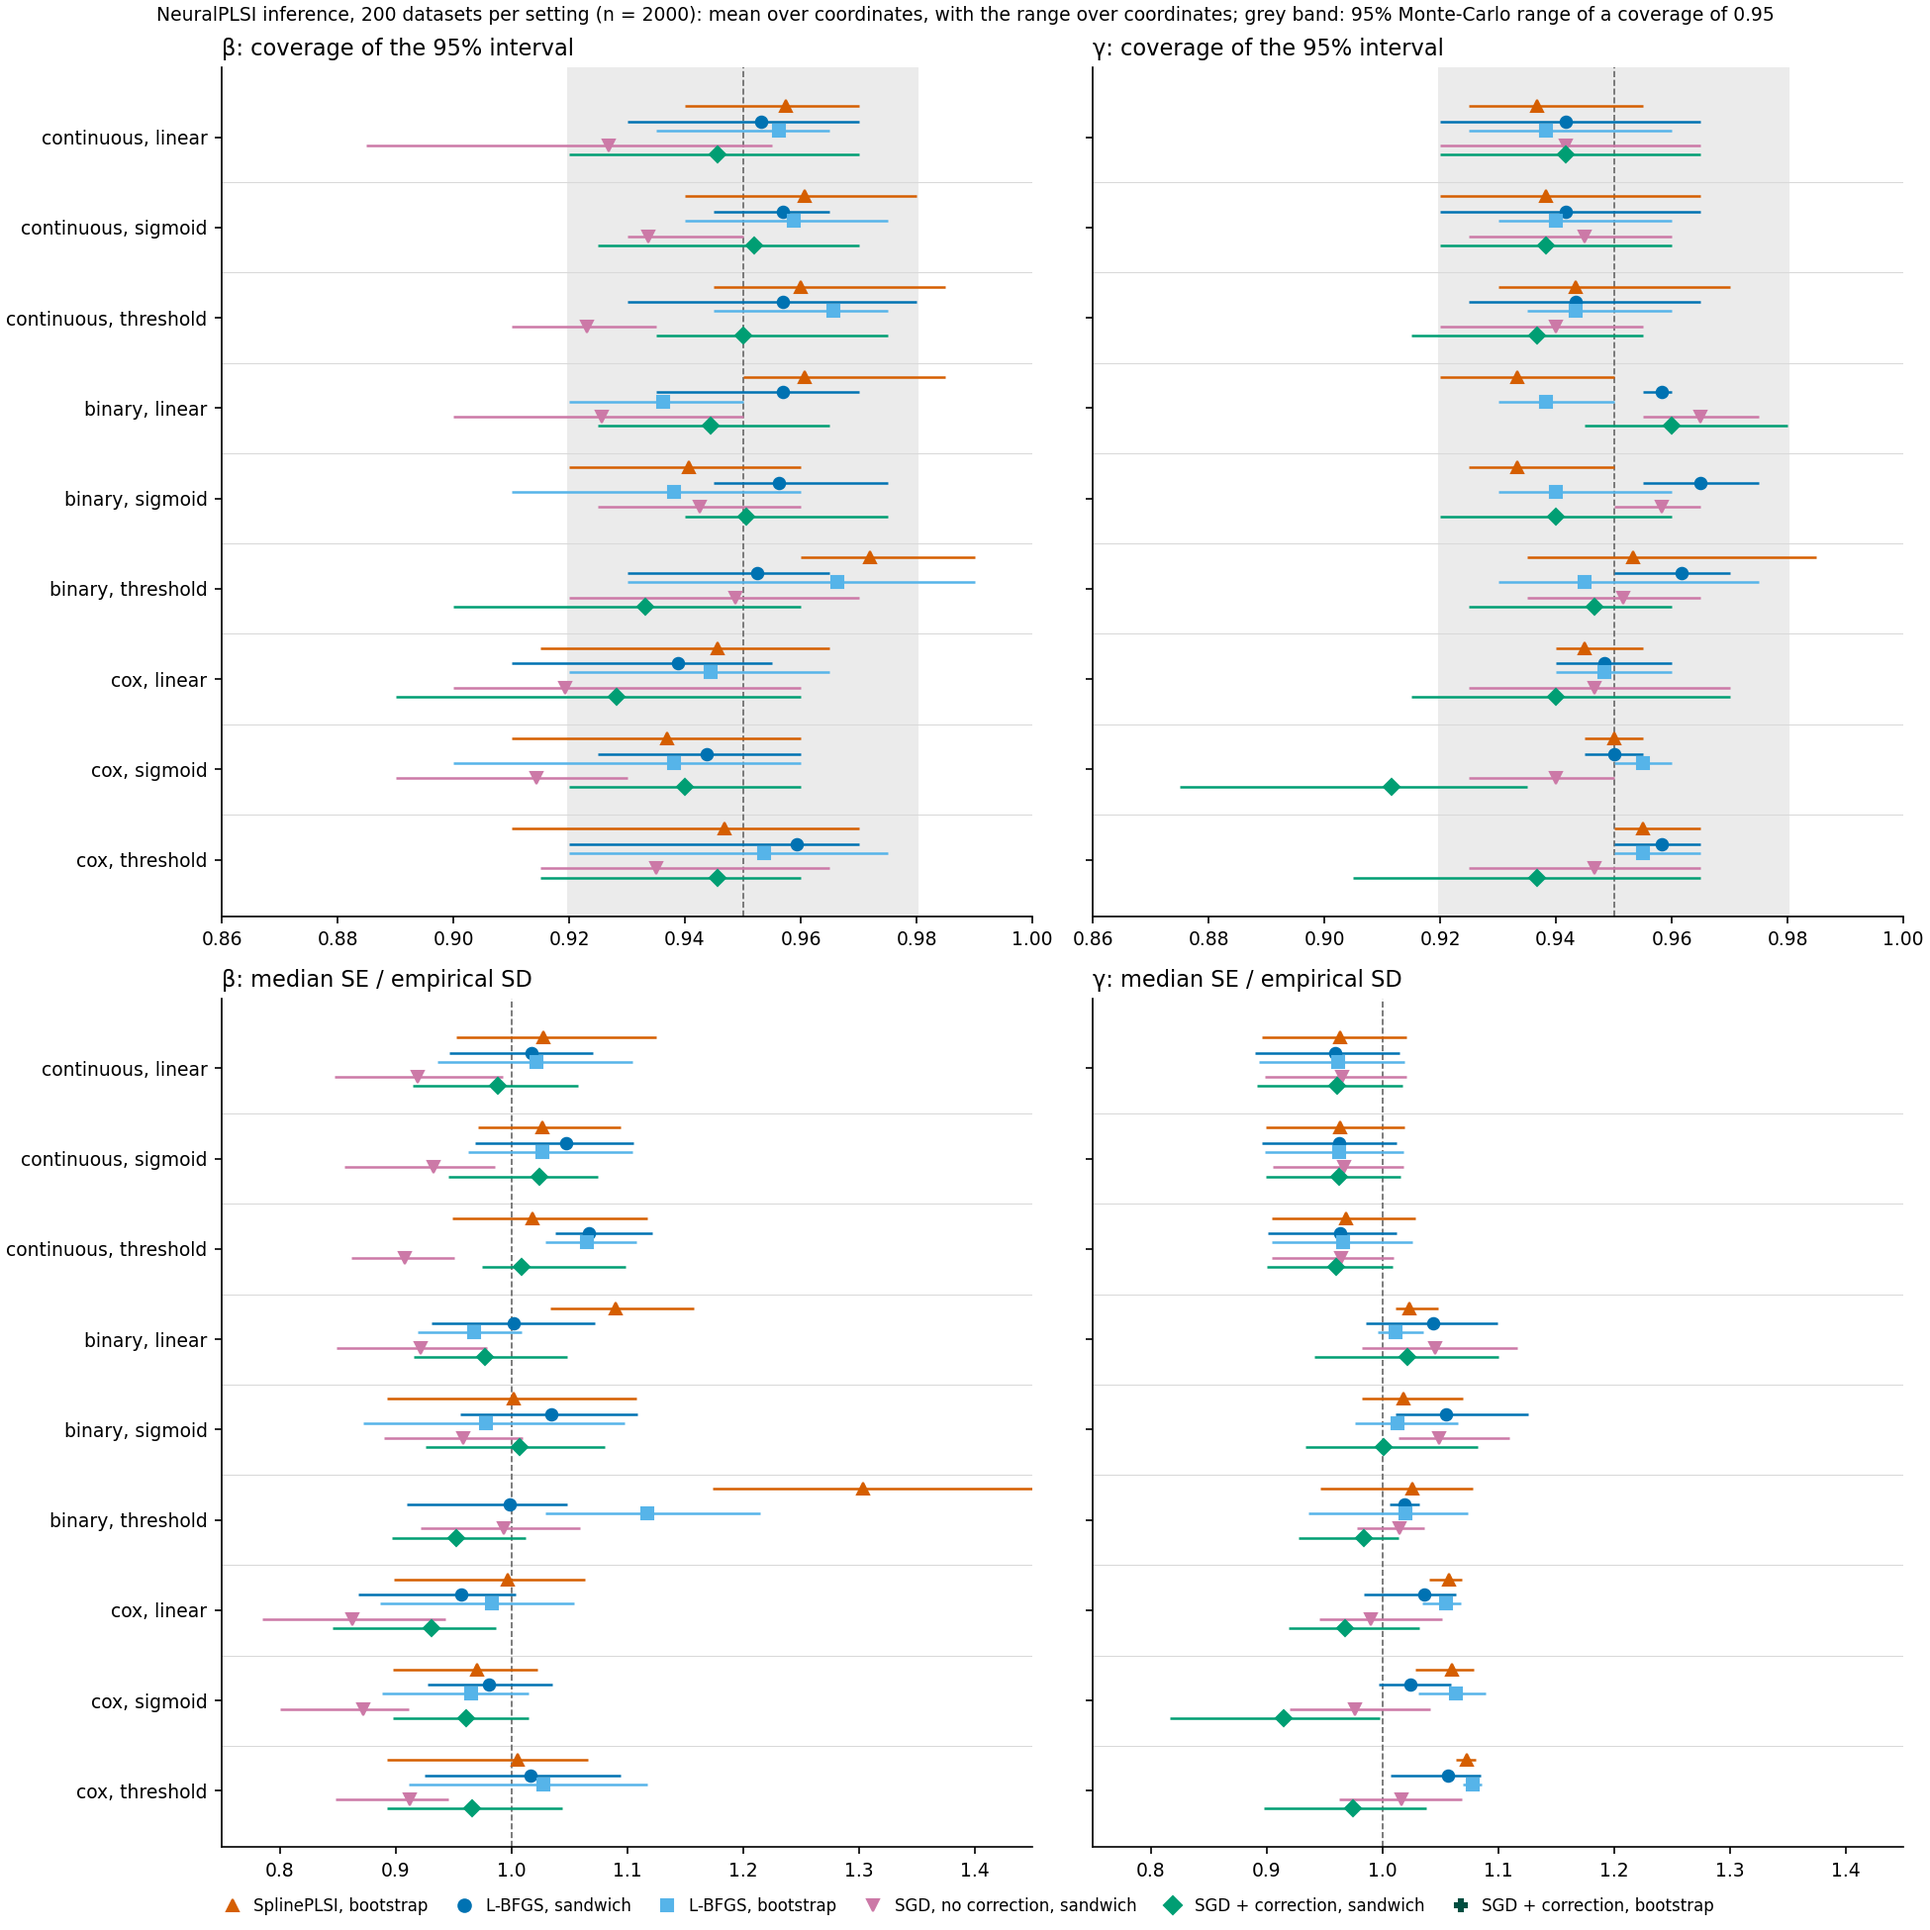
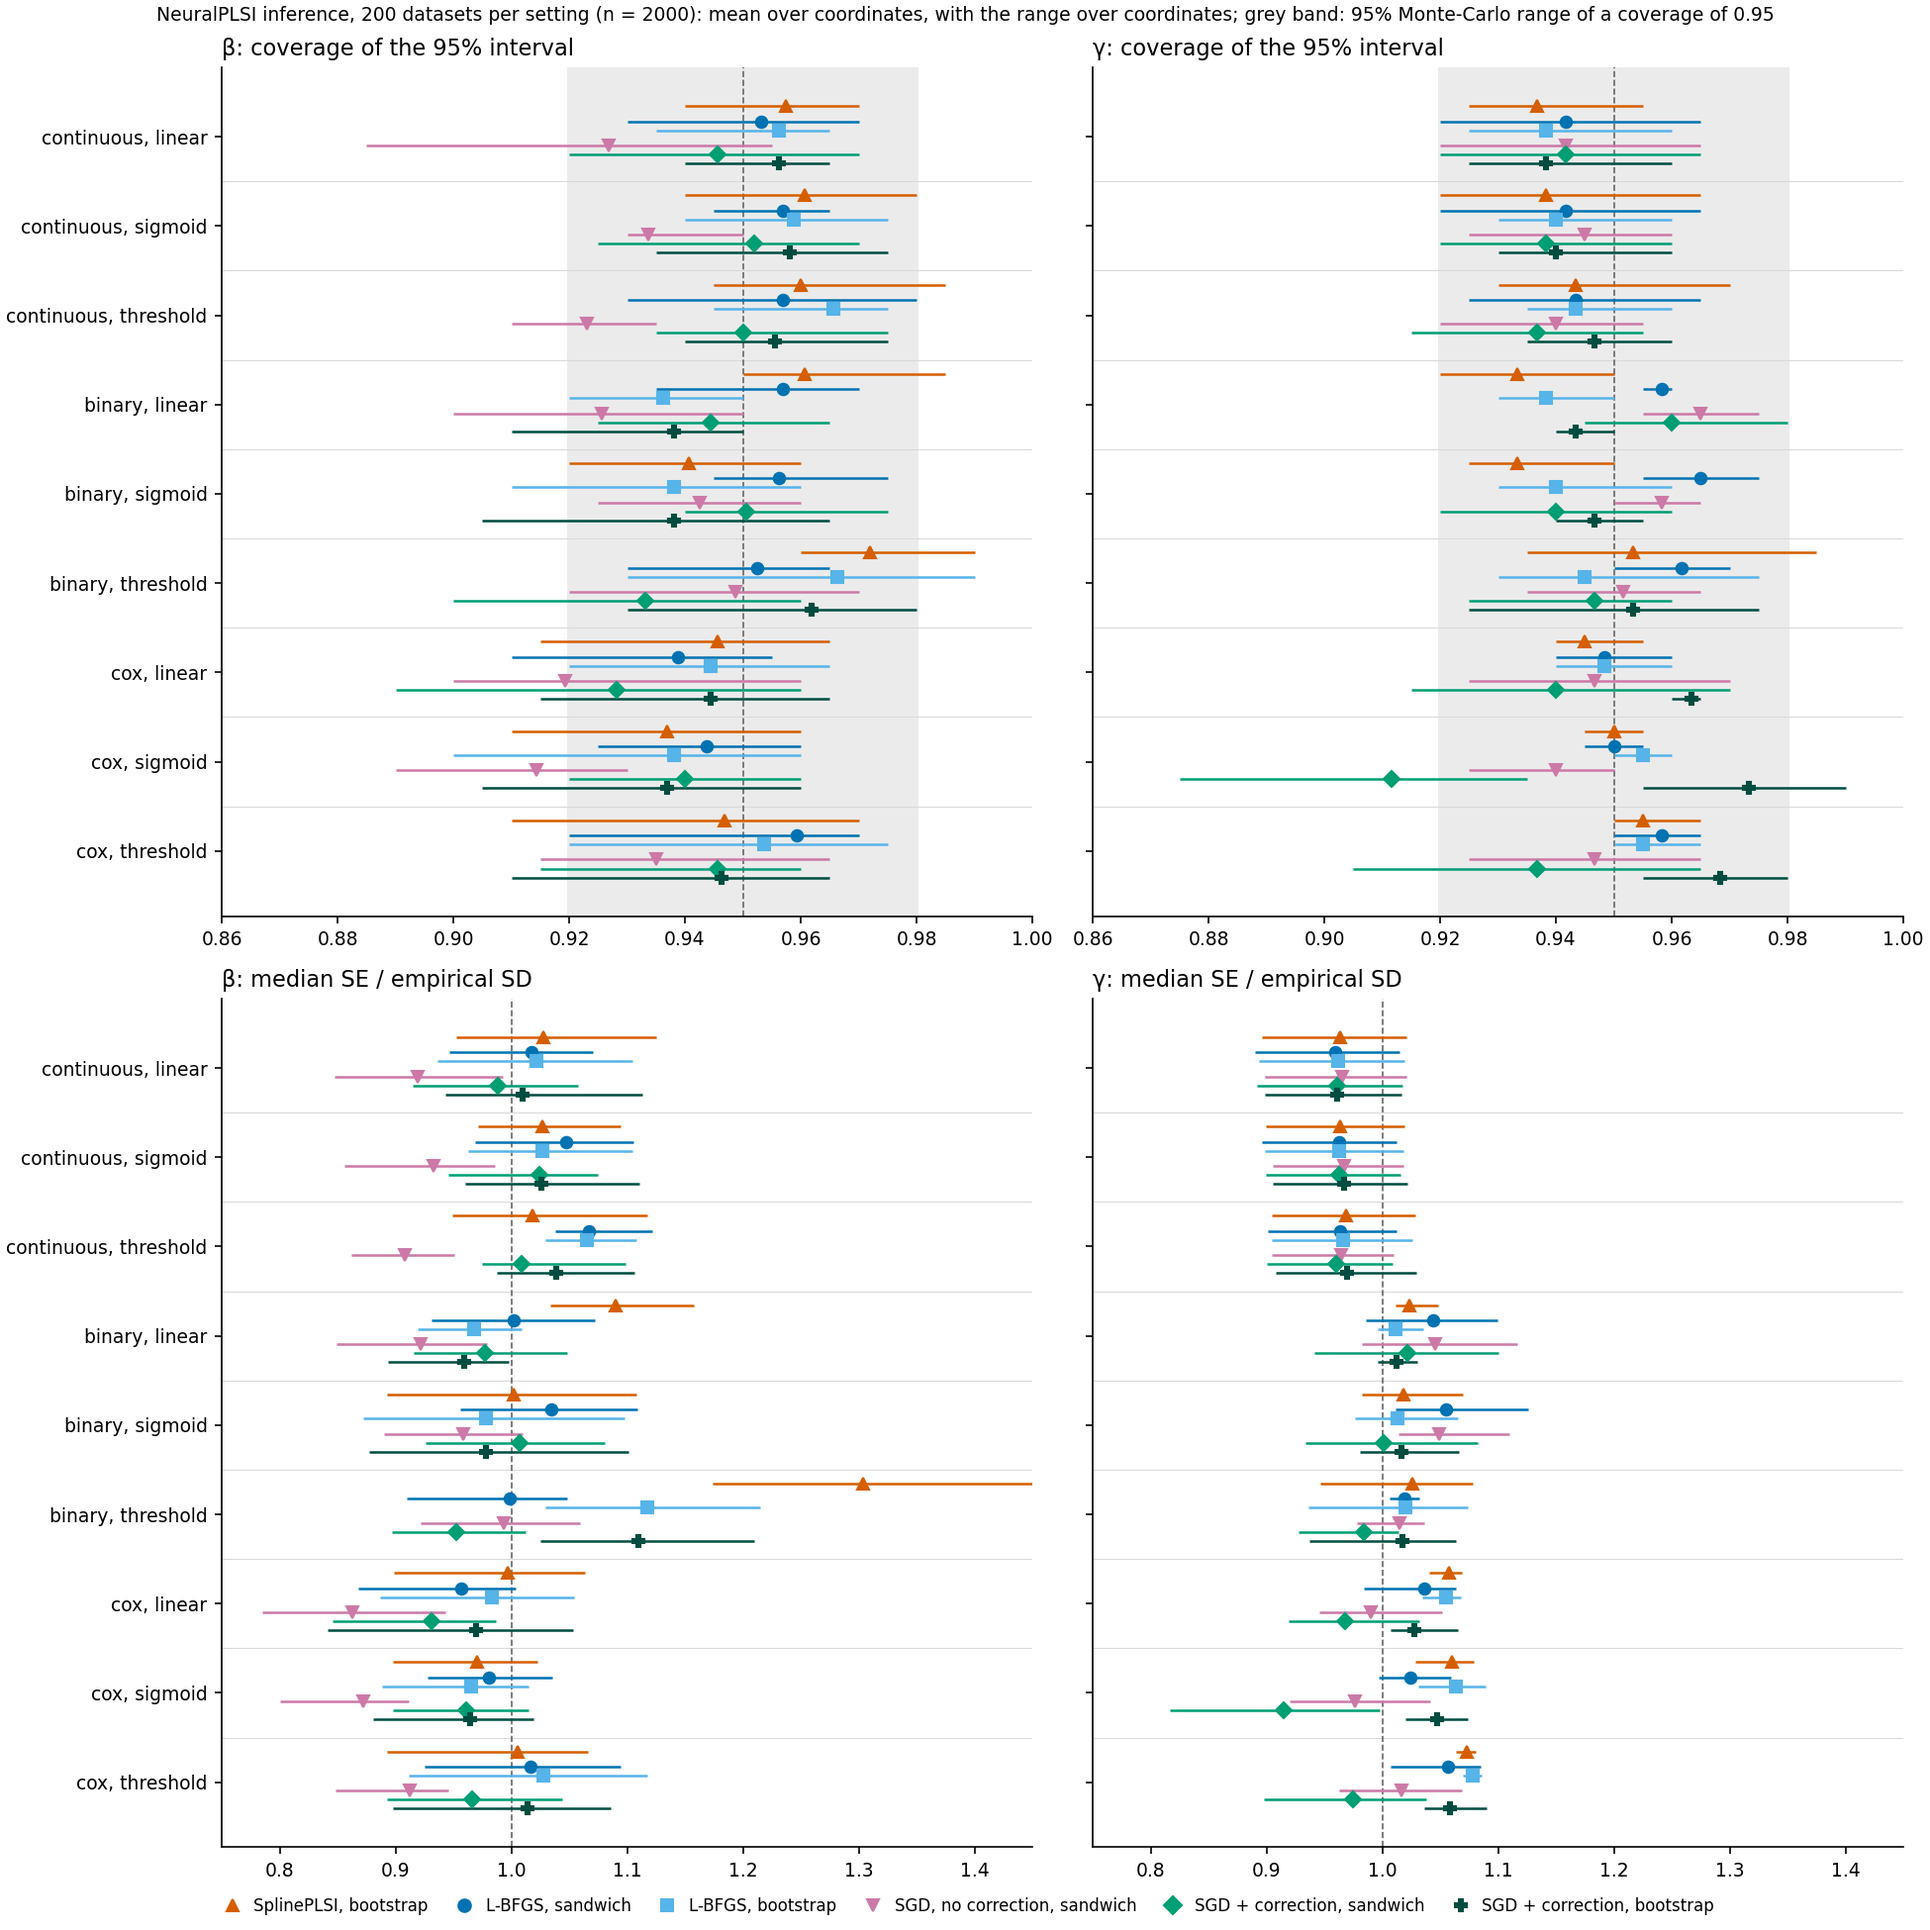
Results: AdamW + frozen bootstrap (job 28865591) and the scale study (job 28865627)
The bootstrap of AdamW + frozen correction covers beta 0.937-0.962 and gamma
0.938-0.973, Cox included. At large n and wide networks the frozen sandwich
stays valid for beta at every n and width (0.921-0.955) and for gamma with
continuous outcomes, but gamma with binary and Cox outcomes under-covers more
as n grows (to 0.79 and 0.69 at n = 100,000), with small bias: AdamW's
training noise, which no sandwich describes and the bootstrap redraws.

diff --git a/reproduce/sandwich/summarize_scale.py b/reproduce/sandwich/summarize_scale.py
@@ -1,0 +1,53 @@
+"""The large-n, wide-network study (scale_monte_carlo.py rows): coverage and SE/SD per cell.
+
+Usage: python reproduce/sandwich/summarize_scale.py [--input output/sandwich/scale] [--out results/sandwich]
+
+Writes scale_coverage.csv: per n, width, outcome, g, block and sandwich
+(frozen; full where the network has at most 8,000 weights), the Wald coverage
+and the median SE / empirical SD averaged over coordinates, the bias of the
+estimate in units of its SD averaged over coordinates, and median times.
+"""
+import argparse, csv, glob, json, sys
+from pathlib import Path
+import numpy as np
+sys.path.insert(0, str(Path(__file__).resolve().parents[2]/'python'))
+from neuralplsi.simulation import beta as TRUE_BETA, gamma as TRUE_GAMMA
+
+Z = 1.959964
+
+
+def main(argv=None):
+    parser = argparse.ArgumentParser(description=__doc__.split('\n')[0])
+    parser.add_argument('--input', default='output/sandwich/scale')
+    parser.add_argument('--out', default='results/sandwich')
+    args = parser.parse_args(argv)
+    table = []
+    for path in glob.glob(str(Path(args.input)/'*.jsonl')):
+        rows = [json.loads(line) for line in open(path)]
+        if not rows:
+            continue
+        r0 = rows[0]
+        for block, truth in (('beta', TRUE_BETA), ('gamma', TRUE_GAMMA)):
+            est = np.array([r[block] for r in rows]); sd = est.std(axis=0, ddof=1)
+            for sandwich in ('frozen', 'full'):
+                if sandwich not in r0:
+                    continue
+                se = np.array([r[sandwich][block+'_se'] for r in rows])
+                table.append(dict(n=r0['n'], width=r0['width'], params=r0['params'], outcome=r0['outcome'], g_fn=r0['g'],
+                                  block=block, sandwich=sandwich, datasets=len(rows),
+                                  coverage=(np.abs(est-truth) <= Z*se).mean(),
+                                  se_sd=(np.median(se, axis=0)/sd).mean(),
+                                  bias_sd=(np.abs(est.mean(axis=0)-truth)/sd).mean(),
+                                  time_fit_median=np.median([r['time_fit'] for r in rows]),
+                                  epochs_median=np.median([r['epochs'] for r in rows])))
+    table.sort(key=lambda r: (r['n'], r['width'], r['outcome'], r['g_fn'], r['block'], r['sandwich']))
+    out = Path(args.out)/'scale_coverage.csv'
+    with open(out, 'w', newline='') as f:
+        writer = csv.DictWriter(f, fieldnames=list(table[0]))
+        writer.writeheader()
+        writer.writerows({k: f'{v:.6g}' if isinstance(v, float) else v for k, v in row.items()} for row in table)
+    print('wrote', out)
+
+
+if __name__ == '__main__':
+    main()

diff --git a/results/sandwich/README.md b/results/sandwich/README.md
@@ -103,6 +103,10 @@ Coverage (SE/SD), from `sandwich_monte_carlo.csv`:
 - **For Cox outcomes (2) is slightly short**: β covers 0.928-0.946 (SE/SD
   0.93-0.97) and γ 0.912-0.940; γ with sigmoid g (0.912, SE/SD 0.92) is below the
   Monte-Carlo range. The frozen sandwich's SEs are 3-8% too small there.
+- **The bootstraps** (main simulation, B = 1,000, `inference_methods.png`):
+  L-BFGS covers β 0.936-0.966 and γ 0.938-0.955; AdamW + frozen correction β
+  0.937-0.962 and γ 0.938-0.973, Cox γ included (0.963-0.973), where its frozen
+  sandwich is short. Both over-cover β somewhat for threshold g (SE/SD up to 1.11).
 - **The comparator under-covers β** (0.914-0.949, SE/SD 0.86-0.99, lowest for
   Cox): AdamW's early-stopped β is not corrected, only γ is. Its γ covers
   0.940-0.965. Without any correction AdamW's γ covered 0.78-0.85 (earlier study),
@@ -113,6 +117,35 @@ fits (β coverage 0.64-0.76). That was an error in `sandwich.py`: it gave the
 variance of the raw β weights, whose length AdamW leaves at about 0.5 (L-BFGS
 keeps it at 1); the unit-length β's variance is that divided by the squared
 length. Fixed in 0da332e.
+
+## At scale: large n and wide networks
+
+`scale_monte_carlo.py` (BigPurple, job 28865627): AdamW + frozen correction
+with the frozen sandwich, 200 datasets per cell, n of 2,000, 20,000 and 100,000,
+2-layer networks of width 32, 128 and 512 (1,165, 16,909 and 264,205 weights),
+three outcomes, sigmoid and threshold g; for width 32 also the full sandwich of
+the same fits (`scale_coverage.csv`).
+
+| | β coverage | β SE/SD | γ coverage, continuous | γ coverage, binary | γ coverage, Cox |
+|---|---|---|---|---|---|
+| n = 2,000 | 0.927-0.954 | 0.91-1.03 | 0.945-0.955 | 0.917-0.945 | 0.900-0.912 |
+| n = 20,000 | 0.934-0.955 | 0.94-1.01 | 0.933-0.937 | 0.888-0.922 | 0.835-0.903 |
+| n = 100,000 | 0.921-0.953 | 0.91-1.00 | 0.937-0.942 | 0.792-0.918 | 0.687-0.833 |
+
+- **β is valid at every n and width**, and the network's width does not matter:
+  the frozen sandwich, which costs 0.08 s at n = 100,000, gives calibrated SEs
+  where the full one cannot be formed. So is γ for continuous outcomes.
+- **γ for binary and Cox outcomes is not, and gets worse with n**: down to 0.79
+  (binary) and 0.69 (Cox) at n = 100,000, with SE/SD 0.54-0.87. Its bias is
+  small (0.02-0.17 SD), so the SEs are too small, and the full sandwich does no
+  better (binary, n = 100,000, width 32: 0.878 against 0.853). The estimate
+  varies more than any sandwich, which describes a minimizer, allows for: the
+  network AdamW returns depends on its initialization, minibatches and
+  early-stopping epoch, and at large n training stops after about 22 epochs
+  instead of about 95, so that noise is a growing share of γ's variance.
+  A bootstrap refits the network and so draws it; at n = 2,000 the bootstrap
+  of AdamW + frozen correction covers Cox γ (0.963-0.973) where the frozen
+  sandwich does not (0.910-0.912).
 
 ## Sandwich and bootstrap on the same fits
 
@@ -181,10 +214,8 @@ checked to be identical to these.
 
 ## Not yet done
 
-- The frozen sandwich's Cox shortfall (SEs 3-8% too small).
-- Coverage of (2) at the scale it is for: large n and wide networks, where the
-  full sandwich cannot be formed (only the frozen sandwich's cost has been
-  measured there: `results/scalability`).
+- γ for binary and Cox outcomes with AdamW at large n (above): the bootstrap at
+  that scale, or training that leaves less noise (more epochs, no early stopping).
 
 ## Files and how to reproduce
 
@@ -192,6 +223,7 @@ checked to be identical to these.
   with their range over coordinates, the median remaining Newton step and the
   median smallest Hessian eigenvalue; SplinePLSI as fitted and polished (mean SE).
 - `matched_comparison.csv`: the sandwich and the bootstrap on the same L-BFGS fits.
+- `scale_coverage.csv`: AdamW + frozen correction at large n and wide networks.
 - Raw rows (one per fit) are in `output/sandwich/`, not versioned.
 
 ```bash
@@ -199,9 +231,10 @@ python reproduce/sandwich/monte_carlo.py output/sandwich/methods.jsonl 200      
 python reproduce/sandwich/spline_monte_carlo.py output/sandwich/spline.jsonl 500
 python reproduce/sandwich/summarize.py
 python reproduce/sandwich/summarize_matched.py   # after copying the matched rows to output/sandwich/matched
+python reproduce/sandwich/summarize_scale.py     # after copying the scale rows to output/sandwich/scale
 python reproduce/sandwich/plot.py               # also reads output/simulation (the main simulation's bootstraps)
 ```
 
-The matched study: `sbatch reproduce/sandwich/study.slurm` from the repository
-root on BigPurple. `sandwich.py` and `frozen.py` are the PyTorch references the
+The matched study and the scale study: `sbatch reproduce/sandwich/study.slurm`
+and `sbatch reproduce/sandwich/scale.slurm` from the repository root on BigPurple. `sandwich.py` and `frozen.py` are the PyTorch references the
 engine was checked against.
